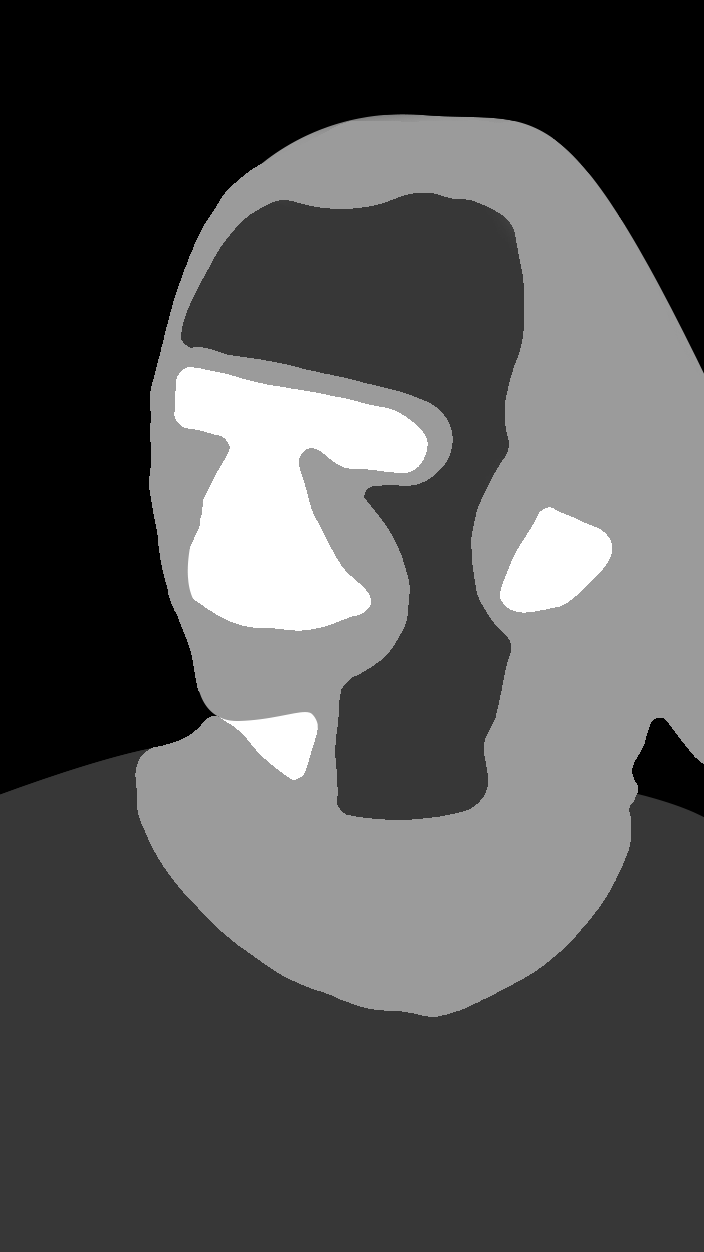
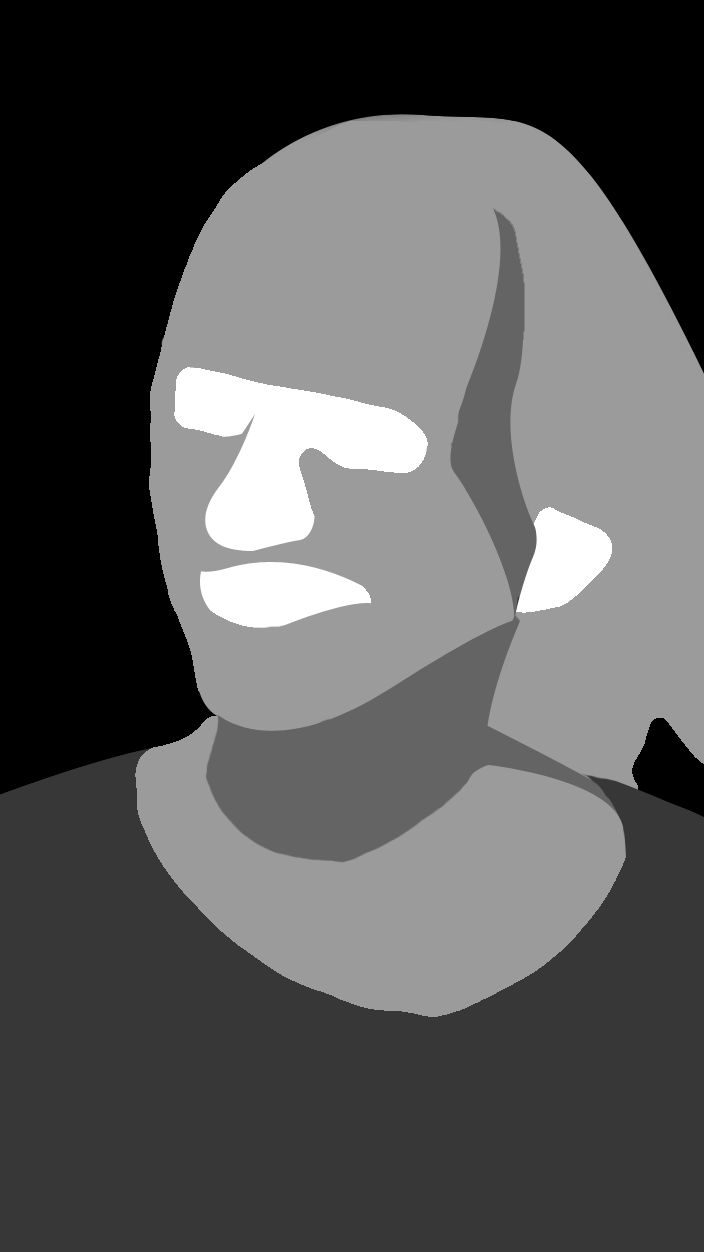
test

Changed region(s): [[0.25, 0.1558, 0.9062, 0.6853], [0.25, 0.3427, 0.5312, 0.4984], [0.4062, 0.4984, 0.4375, 0.5296]]

diff --git a/sketch.js b/sketch.js
@@ -74,8 +74,6 @@ angleMode(DEGREES);
 
  edgeSet();
 
-
-//
 for(let i=0;i<8000;i++) {
     let x = floor(random(sourceImg.width));
     let y = floor(random(sourceImg.height));
@@ -91,54 +89,43 @@ for(let i=0;i<8000;i++) {
     }
 
 }
-for(let i=0;i<8000;i++) {
-    let x = floor(random(sourceImg.width));
-    let y = floor(random(sourceImg.height));
-    let pix = sourceImg.get(x, y);    
-    let pointSize = map(i, 0, 8000, 40, 10);
-    let mask = maskImg.get(x, y);
+//
+strokeWeight(2);
+Mosaic(40, 120, 15, 30, 30, 42);
 
-    fill(pix);
-    if(mask[0] > 140 && mask[0] < 170) {
-      noStroke();
-      ellipse(x, y, pointSize, pointSize);    
-    }
-
-}
+strokeWeight(1.5);
+Mosaic(80, 220, 25, 50, 25, 27);
 
 
-for(let i=0;i<8000;i++) {
-    let x = floor(random(sourceImg.width*0.25, sourceImg.width*0.75));
-    let y = floor(random(sourceImg.height*0.25, sourceImg.height*0.75));
-    let pix = sourceImg.get(x, y);    
-    let pointSize = map(i, 0, 8000, 20, 5);
-    let mask = maskImg.get(x, y);
-
-    fill(pix);
-    if(mask[0] > 200 && mask[0] < 260) {
-      noStroke();
-      ellipse(x, y, pointSize, pointSize);    
-    }
-
-}
+strokeWeight(1.5);
+Mosaic(140, 260, 30, 60, 20, 22);
 
 strokeWeight(1);
-Mosaic(40, 70, 15, 30, 30, 42);
-
-
-
-strokeWeight(0.75);
-Mosaic(140, 170, 30, 60, 20, 22);
-
-
-
-strokeWeight(0.5);
 Mosaic(200, 260, 50, 100, 10, 12);
   
-  
+noStroke();
+fill(255, 232, 134, 30);
+
+// triangle(random(sourceImg.width), random(sourceImg.height),
+//   random(sourceImg.width), random(sourceImg.height),
+//   random(sourceImg.width), random(sourceImg.height));
+
+// triangle(random(sourceImg.width), random(sourceImg.height),
+//   random(sourceImg.width), random(sourceImg.height),
+//   random(sourceImg.width), random(sourceImg.height));
+
+// triangle(random(sourceImg.width), random(sourceImg.height),
+//   random(sourceImg.width), random(sourceImg.height),
+//   random(sourceImg.width), random(sourceImg.height));
+
+// triangle(random(sourceImg.width), random(sourceImg.height),
+//   random(sourceImg.width), random(sourceImg.height),
+//   random(sourceImg.width), random(sourceImg.height));
 
 
-  drawOutline();
+
+drawOutline();
+
 // trace();
   renderCounter = renderCounter + 1;
   if(renderCounter > 10) {
@@ -185,12 +172,12 @@ for(let i=0;i<=xCount;i++) { //Medium Chunks
 
 
       if((j % 2 == 0 && i % 2 != 0) || (j % 2 != 0 && i % 2 == 0)){
-        print("odd");
+        //print("odd");
         odd = 3;
         even = 1.25;
    
       } else {
-        print("even");
+        //print("even");
         odd = 1.25;
         even = 3;
      
@@ -240,35 +227,30 @@ for(let i=0;i<=xCount;i++) { //Medium Chunks
             x4 = chords[0];
             y4 = chords[1];
           }
-          stroke(0);
-          //noFill();
-          beginShape();
-          vertex(x1, y1);
-          vertex(x2, y2);
-          vertex(x3, y3);
-          vertex(x4, y4);
-          //endShape(CLOSE);
-          //quad(x1, y1, x2, y2, x3, y3, x4, y4);
-          //fill(sourceImg.get(x1+(quadSize/3), y1+(quadSize/3)));
+          quad(x1, y1, x2, y2, x3, y3, x4, y4);
+         //  fill(sourceImg.get(x1+(quadSize/3), y1+(quadSize/3)));
          // ellipse(x1+(quadSize/3), y1+(quadSize/3), 10, 10);
 
+          for(let i = 0; i < 5; i++){
+            let xi = floor(random(x-quadSize/3, x+quadSize/3));
+            let yi = floor(random(y-quadSize/2, y+quadSize/2));
+            noStroke();
+            fill(sourceImg.get(xi, yi));
+            //ellipse(xi, yi, quadSize/3, quadSize/3);
+            stroke(0);
+          }
 
           push();
           scale(0.5, 0.5);
           translate(x, y);
           noStroke();
           fill(255, 255, 255, 30);
-          beginContour();
+  
           //quad(x1, y1, x2, y2, x3, y3, x4, y4);
-          vertex(x4, y4);
-          vertex(x3, y3);
-          vertex(x2, y2);
-          vertex(x1, y1);
-          endContour();
-          
+
+
 
           pop();
-          endShape(CLOSE);
 
         } else { //if corner piece
 
@@ -324,10 +306,15 @@ for(let i=0;i<=xCount;i++) { //Medium Chunks
             }
 
             fill(sourceImg.get((x1+x2+x3+x4)/4, (y1+y2+y3+y4)/4));
-            noFill();
-            quad(x1, y1, x2, y2, x3, y3, x4, y4);
-
-
+            //fill(0);
+            
+            
+           
+             if(quadSize == 42 || quadSize == 12){
+              print("please");
+               quad(x1, y1, x2, y2, x3, y3, x4, y4);
+             }
+            print("Quad size : " + quadSize);
           }
 
 
@@ -404,7 +391,7 @@ function edgeSet(){
 
       edges[i][j] = true;
       fill(0);
-      ellipse(x, y, 15, 15);
+     // ellipse(x, y, 15, 15);
      // print("x :" + i + " y : " + j + " , mask: " + mask[0] + " maskPrev : " + maskSave);
       } else {
         edges[i][j] = false;
